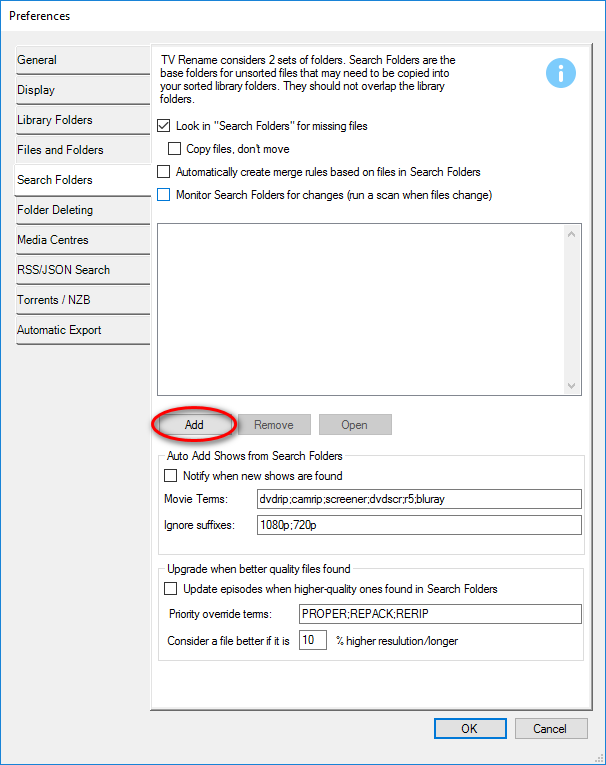
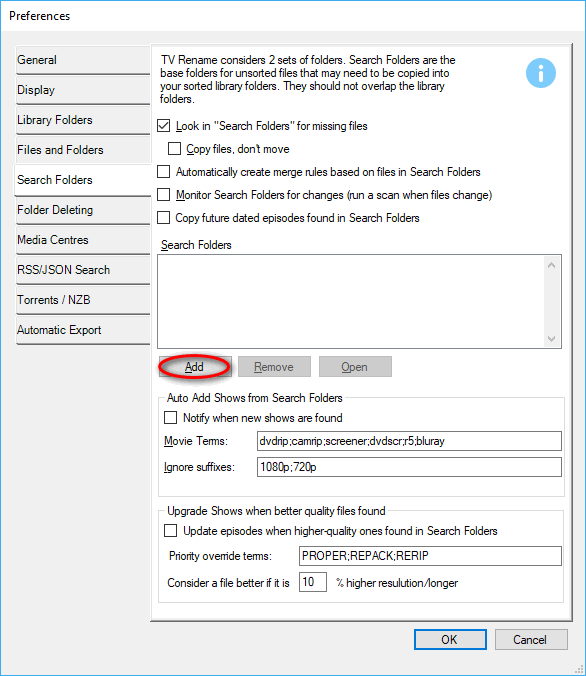
update search folders

Changed region(s): [[0.0, 0.0621, 0.9829, 0.963], [0.0, 0.0, 0.1229, 0.0311], [0.9829, 0.963, 1.0, 0.9941]]

diff --git a/_manual/options/preferences-search-folders.md b/_manual/options/preferences-search-folders.md
@@ -2,39 +2,56 @@
 ### The Search Folders Tab
 
 ![Preferences - the Search Folders tab]({{ site.baseurl }}/assets/images/options/preferences-search-folders-01.png){:.pic-l}
-The _**Search Folders**_ tab is used to tell TV&nbsp;Rename where to look for TV show episode files BEFORE they are processed. Logical entries in here would be your downloads folder (if you download TV show episodes from the internet) or maybe your desktop (if you rip TV show episodes from DVD or Blu-ray). Or both!
+_Search Folders_ tell TV&nbsp;Rename where to look for TV Show episode files **BEFORE** they are processed and copied or moved to the media library.
 
+The functionality of the first five tick boxes requires little explanation.
+
+_Look in "Search Folders" for missing files_ enables the search functionality when ticked.
+
+_Copy files, don't move_, if ticked will tell TV&nbsp;Rename to copy and files to the media library leaving the originals intact.
+
+_Automatically create merge rules based on files in Search Folders_ is similar to the functionality found in **[Library Folders]({{ site.baseurl }}/manual/options#the-library-folders-tab "Read about Library Folders")** except the appropriate record is created before moving/copying the file rather than after.
+
+_Monitor folders for changes_, if ticked, will trigger a scan if Windows detects a change in any of the source folders.
+
+_Copy future dated episodes found in Search Folders_ handles files that are found to exist  before their release date.
+ 
 | *Defaults* | | |
-| | Look in "Search Folders" for missing files | _**Ticked**_ |
-| | Copy files, don't move | _**Un-ticked**_ |
-| | Automatically create merge rules based on files in Search Folders | _**Un-ticked**_ |
-| | "Monitor folders for changes" | _**Un-ticked**_ |
+| | _Look in "Search Folders" for missing files_ | _**Ticked**_ |
+| | _&emsp;&emsp;Copy files, don't move_ | _**Un-ticked**_ |
+| | _Automatically create merge rules based on files in Search Folders_ | _**Un-ticked**_ |
+| | _Monitor folders for changes_ | _**Un-ticked**_ |
+| | _Copy future dated episodes found in Search Folders_ | _**Un-ticked**_ |
 
-Three buttons are available at the middle of the tab. `Add` opens an explorer style window so you can browse to the folder location you wish to add and click `OK`, `Remove` removes a highlighted row from the panel and `Open` opens an explorer window targeting the row highlighted in the panel.
+The _Search Folders_ window allows you to add, delete or check the paths to your search folders.
+ 
+Logical entries in here would be your downloads folder (if you download TV show episodes from the internet) or maybe your desktop (if you rip TV show episodes from DVD or Blu-ray). Or both!
+
+Three buttons are available. `Add` opens an explorer style window so you can browse to the folder location you wish to add and click `OK`, `Remove` removes a highlighted row from the panel and `Open` opens an explorer window targeting the row highlighted in the panel.
 
 The *Auto Add:* section comes in to play when the **Preferences>Search Folders - Notify when new shows are found** option is ticked.
 
-The "Movie Terms:" box helps TV Rename identify "types" of video file.
+The _Movie Terms:_ text box helps TV&nbsp;Rename identify "types" of video file.
 
 _Default:_ _**dvdrip;camrip;screener;dvdscr;r5;bluray**_
 
-And the "Ignore Suffixes:" box tells TV Rename to ignore the specified suffixes.
+The _Ignore Suffixes:_ text box tells TV Rename to ignore the specified suffixes.
 
-_Default_ _**1080p;720p**_
+_Default:_ _**1080p;720p**_
 
-| *Defaults* | | |
-| | Update episodes when higher quality ones found | _**Un-ticked**_ |
+_Update episodes when higher quality ones found:_ tells TV&nbsp:;Rename to replace files in the video library with higher quality versionbs if they are found. 
 
-The final two options help TV&nbsp;Rename when replacing videos that already exist in the library.
+_Default:_  _**Un-ticked**_ |
 
-The "Priority override terms:" text box defines the "hints" used to determine if a video has been improved at source.
+The final two options act as "helpers" for TV&nbsp;Rename when replacing videos that already exist in the library.
+
+The _Priority override terms:_ text box defines the "hints" used to determine if a video has been improved at source.
 
 _Default:_ _**PROPER;REPACK;RERIP**_ (Note the semicolon delimiter).
 
-"Consider a file better if it is **X%** higher resolution/longer tells TV&nbsp;Rename to replace an existing library file if the newly found version is higher resolution and/or longer.
+_Consider a file better if it is **X%** higher resolution/longer_ tells TV&nbsp;Rename to replace an existing library file if the newly found version is higher resolution and/or longer.
 
-_Default:_ _**10**_% 
-
+_Default:_ _**10%**_ 
 
 {:.toplink}
 [Return to Top]()

diff --git a/_manual/options/preferences-library-folders.md b/_manual/options/preferences-library-folders.md
@@ -4,7 +4,7 @@
 ![Preferences - the Library Folders tab]({{ site.baseurl }}/assets/images/options/preferences-library-folders-01.png){:.pic-l}
 The Library Folders tab is used to tell TV&nbsp;Rename about the location(s) of your Media Library - viz where to look for TV Show episode files **AFTER** they have been processed.
 
-Use the `Add` button to browse to the folder that is the "Base" folder of your Media Library. and click `OK`.
+To tell TV&nbsp;Rename about your library simply use the `Add` button to browse to a folder that is a "Base" folder of your Media Library. and click `OK`.
 
 You can also highlight a path in the list and use the `Remove` button to remove it, and highlight a path in the list and use `Open` to check its contents in a File Explorer window.
 
